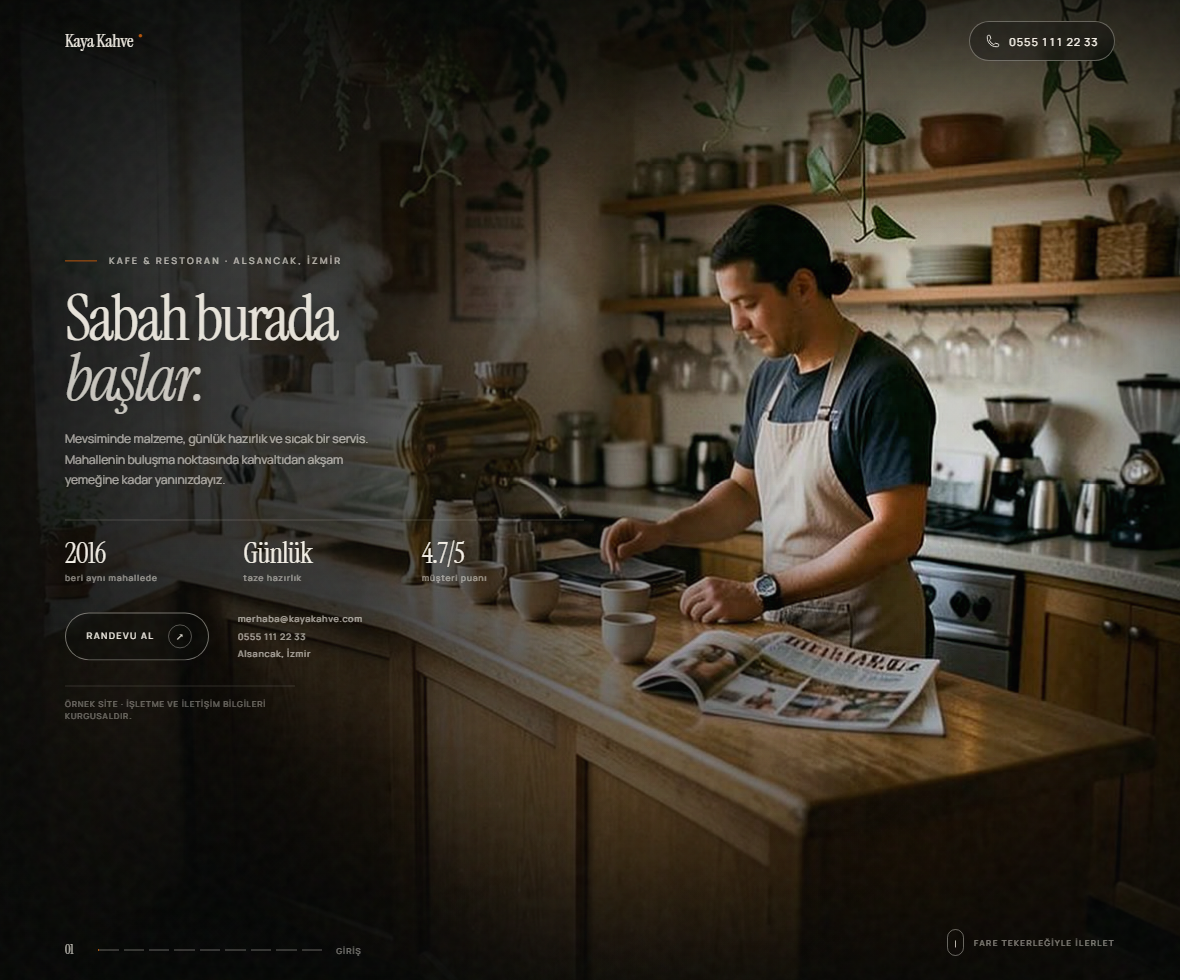
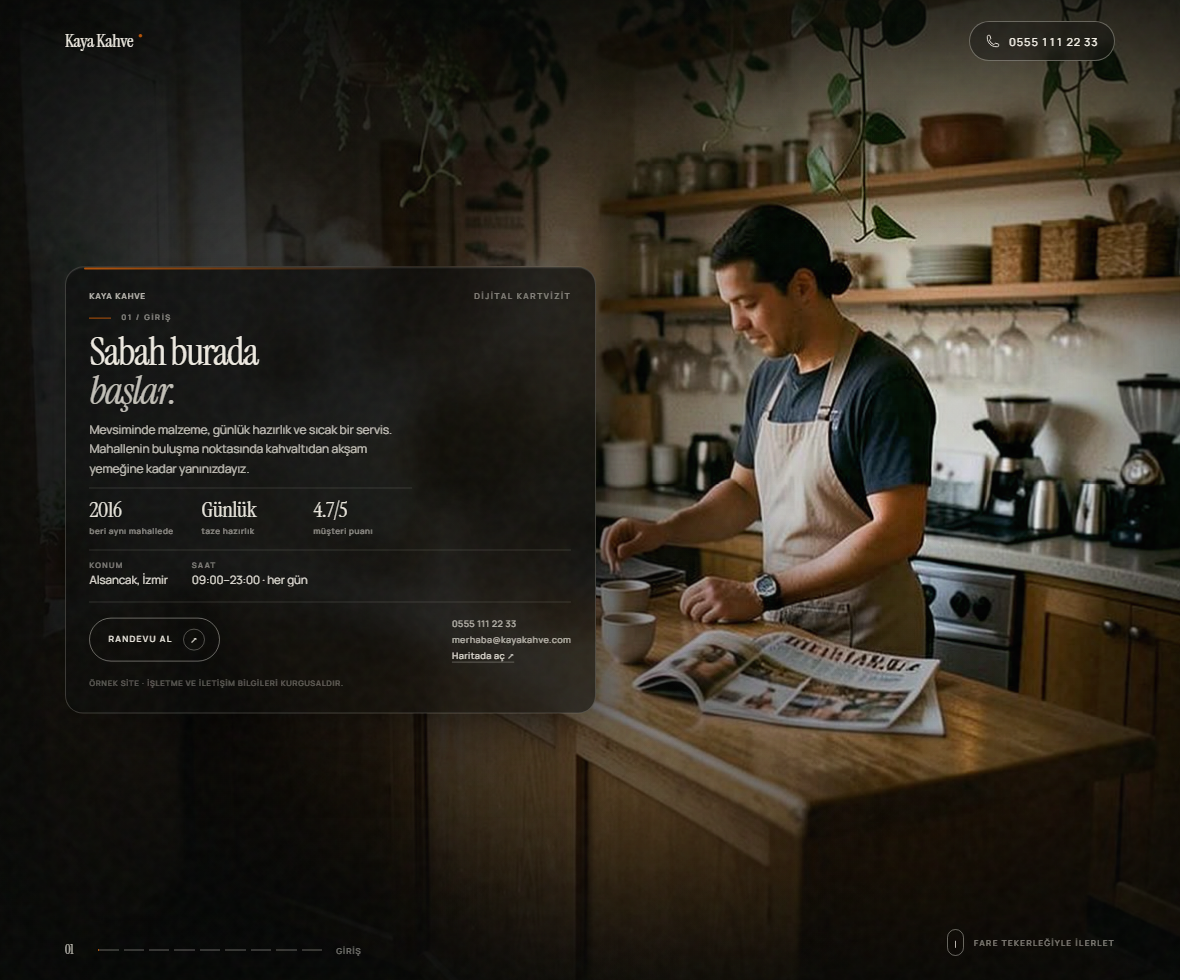
Kartvizit bölümü: sektöre göre değişen 9 sahne, konum ve harita bağlantısı.
Sol metin bloğu cam kartvizite dönüştü; orta tuş her çevrildiğinde başlık, hizmet,
ekip, kayıt ve davet bilgileri kartın içinde değişiyor.

Changed region(s): [[0.061, 0.2449, 0.5186, 0.7347]]

diff --git a/kaya-kahve/index.html b/kaya-kahve/index.html
@@ -125,28 +125,41 @@ html:not(.js) .reklam{display:none}
 .ust-tel b{font-weight:500;font-variant-numeric:tabular-nums}
 .ust-tel:hover,.ust-tel:focus-visible{background:var(--vurgu);border-color:var(--vurgu);color:var(--zemin)}
 
-/* Tek metin bloğu: kareler değişir, yazı yerinde durur. */
-.tek{position:absolute;z-index:6;left:var(--kenar);top:50%;width:min(560px,44vw);transform:translateY(-50%);pointer-events:none}
+/* Kartvizit: yazılar fotoğrafın üstünde cam bir kart gibi durur. Orta tuş
+   çevrildikçe karenin yanında kartın içi de değişir. */
+.tek{position:absolute;z-index:6;left:var(--kenar);top:50%;width:min(560px,45vw);transform:translateY(-50%);pointer-events:none}
 .tek>*{pointer-events:auto}
-.tek .etiket{display:flex;align-items:center;gap:12px;font:500 9px/1 var(--sans);letter-spacing:.26em;text-transform:uppercase;color:rgba(243,239,230,.72)}
-.tek .etiket::before{content:'';display:block;width:32px;height:1px;background:var(--vurgu)}
-.tek h2{font:400 clamp(38px,5.4vw,86px)/.95 var(--serif);letter-spacing:-.04em;margin:clamp(14px,2.4vh,24px) 0 clamp(12px,2vh,20px);color:rgba(243,239,230,.94);text-wrap:balance;text-shadow:0 2px 34px rgba(0,0,0,.34)}
-.tek h2 em{font-style:italic;color:rgba(243,239,230,.8)}
-.tek .aciklama{max-width:44ch;font-size:clamp(12px,1.02vw,15px);line-height:1.7;color:var(--soluk);text-shadow:0 1px 16px rgba(0,0,0,.5)}
-.kanit{display:grid;grid-template-columns:repeat(3,minmax(0,1fr));gap:16px;margin-top:clamp(18px,3vh,28px);border-top:1px solid rgba(243,239,230,.18);padding-top:clamp(14px,2.2vh,20px)}
-.kanit div{display:flex;flex-direction:column;gap:4px;min-width:0}
-.kanit b{font:400 clamp(24px,2.4vw,34px)/1 var(--serif);letter-spacing:-.02em;color:var(--murekkep)}
-.kanit span{font:500 8.5px/1.45 var(--sans);letter-spacing:.1em;color:rgba(243,239,230,.56)}
-.son-iletisim{display:flex;flex-wrap:wrap;align-items:center;gap:clamp(14px,2.4vw,28px);margin-top:clamp(18px,3vh,28px)}
-.son-dugme{display:inline-flex;align-items:center;justify-content:center;gap:14px;min-height:48px;padding:0 16px 0 21px;border:1px solid rgba(243,239,230,.45);border-radius:100px;background:rgba(10,11,10,.35);backdrop-filter:blur(8px);font:500 9px/1 var(--sans);letter-spacing:.16em;text-transform:uppercase;color:var(--murekkep);overflow:hidden;isolation:isolate;position:relative;transition:color .4s,border-color .4s}
-.son-dugme::before{content:'';position:absolute;z-index:-1;inset:0;background:var(--murekkep);transform:translateY(101%);transition:transform .55s var(--ease)}
-.son-dugme:hover{color:var(--zemin);border-color:var(--murekkep)}
-.son-dugme:hover::before{transform:translateY(0)}
-.son-dugme span{display:flex;align-items:center;justify-content:center;width:24px;height:24px;border:1px solid rgba(243,239,230,.32);border-radius:50%;font-size:10px;transition:transform .4s,border-color .4s}
-.son-dugme:hover span{transform:rotate(45deg);border-color:rgba(10,11,10,.3)}
-.son-bilgi{display:flex;flex-direction:column;gap:4px;font:500 9px/1.5 var(--sans);letter-spacing:.08em;color:rgba(243,239,230,.66)}
-.son-bilgi a:hover{color:var(--murekkep)}
-.son-not{max-width:46ch;margin-top:clamp(16px,2.6vh,24px);padding-top:12px;border-top:1px solid rgba(243,239,230,.14);font:500 8px/1.6 var(--sans);letter-spacing:.12em;text-transform:uppercase;color:rgba(243,239,230,.4)}
+.kart{position:relative;display:flex;flex-direction:column;gap:clamp(10px,1.5vh,16px);padding:clamp(18px,2vw,26px);border:1px solid rgba(243,239,230,.2);border-radius:18px;background:linear-gradient(158deg,rgba(12,13,12,.78),rgba(8,9,8,.6));backdrop-filter:blur(16px) saturate(1.15);-webkit-backdrop-filter:blur(16px) saturate(1.15);box-shadow:0 30px 70px -30px rgba(0,0,0,.85),inset 0 1px 0 rgba(255,255,255,.07)}
+.kart::before{content:'';position:absolute;left:18px;right:38%;top:0;height:2px;border-radius:2px;background:linear-gradient(90deg,var(--vurgu),transparent)}
+.kart-ust{display:flex;align-items:center;justify-content:space-between;gap:12px;font:500 8px/1 var(--sans);letter-spacing:.22em;text-transform:uppercase;color:rgba(243,239,230,.5)}
+.kart-ust b{font-weight:500;color:rgba(243,239,230,.8);letter-spacing:.14em;white-space:nowrap;overflow:hidden;text-overflow:ellipsis}
+/* Kart yüksekliği sahneye göre değişir: her vuruşta kart nefes alır. */
+.kart-govde{position:relative;transition:height .55s var(--ease);overflow:hidden}
+.kart-sahne{position:absolute;top:0;left:0;right:0;display:flex;flex-direction:column;gap:9px;opacity:0;transform:translateY(9px);transition:opacity .5s var(--ease),transform .6s var(--ease);pointer-events:none}
+.kart-sahne.on{opacity:1;transform:none;pointer-events:auto}
+.kart-no{display:flex;align-items:center;gap:10px;font:500 7.5px/1 var(--sans);letter-spacing:.24em;text-transform:uppercase;color:rgba(243,239,230,.56)}
+.kart-no::before{content:'';display:block;width:22px;height:1px;background:var(--vurgu)}
+.kart-sahne h2{font:400 clamp(27px,3.3vw,45px)/1 var(--serif);letter-spacing:-.035em;margin:2px 0 0;color:rgba(243,239,230,.98);text-wrap:balance}
+.kart-sahne h2 em{font-style:italic;color:rgba(243,239,230,.78)}
+.kart-metin{font-size:clamp(12px,.95vw,13.5px);line-height:1.62;color:rgba(243,239,230,.78);max-width:44ch}
+.kart-kanit{display:grid;grid-template-columns:repeat(3,minmax(0,1fr));gap:14px;margin-top:10px;padding-top:10px;border-top:1px solid rgba(243,239,230,.14)}
+.kart-kanit b{display:block;font:400 clamp(19px,1.9vw,25px)/1 var(--serif);letter-spacing:-.02em;color:rgba(243,239,230,.96)}
+.kart-kanit span{display:block;margin-top:4px;font:500 8px/1.4 var(--sans);letter-spacing:.08em;color:rgba(243,239,230,.56)}
+.kart-kunye{display:flex;flex-wrap:wrap;gap:10px 24px;margin:4px 0 0;padding-top:11px;border-top:1px solid rgba(243,239,230,.14)}
+.kart-kunye div{display:flex;flex-direction:column;gap:3px;min-width:0;max-width:24ch}
+.kart-kunye dt{font:500 7.5px/1 var(--sans);letter-spacing:.2em;text-transform:uppercase;color:rgba(243,239,230,.52)}
+.kart-kunye dd{margin:0;font:400 11.5px/1.35 var(--sans);color:rgba(243,239,230,.92);overflow-wrap:anywhere}
+.kart-kunye .harita-baglanti{color:rgba(243,239,230,.95);text-decoration:underline;text-decoration-color:rgba(243,239,230,.34);text-underline-offset:3px}
+.kart-kunye .harita-baglanti:hover{color:var(--vurgu);text-decoration-color:var(--vurgu)}
+.kart-alt{display:flex;align-items:center;justify-content:space-between;gap:14px;flex-wrap:wrap;padding-top:clamp(10px,1.4vh,14px);border-top:1px solid rgba(243,239,230,.14)}
+.kart-dugme{display:inline-flex;align-items:center;gap:11px;height:44px;padding:0 14px 0 18px;border:1px solid rgba(243,239,230,.4);border-radius:100px;font:500 8.5px/1 var(--sans);letter-spacing:.16em;text-transform:uppercase;color:var(--murekkep);transition:background .35s,color .35s,border-color .35s}
+.kart-dugme span{display:flex;align-items:center;justify-content:center;width:22px;height:22px;border:1px solid rgba(243,239,230,.3);border-radius:50%;font-size:9px;transition:transform .4s,border-color .4s}
+.kart-dugme:hover{background:var(--murekkep);color:var(--zemin);border-color:var(--murekkep)}
+.kart-dugme:hover span{transform:rotate(45deg);border-color:rgba(10,11,10,.28)}
+.kart-baglar{display:flex;flex-direction:column;gap:2px;font:500 9px/1.55 var(--sans);letter-spacing:.05em;color:rgba(243,239,230,.7)}
+.kart-baglar a:hover,.kart-baglar a:focus-visible{color:var(--murekkep)}
+.kart-baglar .harita{color:rgba(243,239,230,.88);text-decoration:underline;text-decoration-color:rgba(243,239,230,.3);text-underline-offset:3px}
+.kart-not{font:500 7.5px/1.6 var(--sans);letter-spacing:.12em;text-transform:uppercase;color:rgba(243,239,230,.36)}
 
 /* Alt şerit: film şeridi — altı vuruş, biri yanar. */
 .alt{position:absolute;z-index:10;left:var(--kenar);right:var(--kenar);bottom:24px;display:flex;align-items:flex-end;justify-content:space-between;gap:24px;pointer-events:none}
@@ -174,11 +187,12 @@ body.gezindi .ipucu{opacity:.62}
   .film::before{background:
     linear-gradient(0deg,rgba(7,8,7,.96) 0%,rgba(7,8,7,.86) 30%,rgba(7,8,7,.34) 58%,transparent 78%),
     linear-gradient(180deg,rgba(7,8,7,.7) 0%,transparent 22%)}
-  .tek{top:auto;bottom:clamp(92px,15vh,124px);transform:none;width:auto;right:var(--kenar)}
-  .tek h2{font-size:clamp(34px,8.6vw,56px)}
-  .tek .aciklama{font-size:12px;max-width:36ch}
-  .kanit{gap:10px}
-  .kanit b{font-size:24px}
+  .tek{top:auto;bottom:clamp(84px,13vh,116px);transform:none;width:auto;right:var(--kenar)}
+  .kart{padding:15px;gap:9px}
+  .kart-sahne h2{font-size:clamp(26px,7vw,38px)}
+  .kart-metin{font-size:11.5px;max-width:38ch}
+  .kart-kunye{gap:8px 18px;padding-top:9px}
+  .kart-ust span{display:none}
   .alt{flex-direction:column;align-items:flex-start;gap:12px;bottom:16px}
   .ipucu{align-self:flex-end}
   .marka{font-size:15px}
@@ -187,17 +201,18 @@ body.gezindi .ipucu{opacity:.62}
   .reklam-ad{font-size:clamp(38px,11vw,58px)}
 }
 @media (max-height:640px){
-  .tek h2{font-size:clamp(30px,5.6vh,48px);margin:10px 0}
-  .tek .aciklama{font-size:11.5px;line-height:1.55}
-  .kanit{margin-top:12px;padding-top:10px}
-  .son-not{display:none}
-  .son-iletisim{margin-top:12px}
+  .kart-sahne h2{font-size:clamp(24px,4.4vh,32px)}
+  .kart-metin{font-size:11px;line-height:1.5}
+  .kart-not{display:none}
+  .kart{padding:14px;gap:8px}
 }
 @media (prefers-reduced-motion:reduce){
   *,*::before,*::after{animation-duration:.01ms!important;animation-iteration-count:1!important;transition-duration:.01ms!important}
   .kare img{transform:none!important}
 }
 html:not(.js) .kare[data-i="1"]{opacity:1;visibility:visible}
+html:not(.js) .kart-govde{height:auto}
+html:not(.js) .kart-sahne{position:static}
 html:not(.js) .ipucu{display:none}
 </style>
 </head>
@@ -238,19 +253,105 @@ html:not(.js) .ipucu{display:none}
   </header>
 
   <section class="tek" aria-live="polite">
-    <span class="etiket">Kafe &amp; Restoran · Alsancak, İzmir</span>
-    <h2>Sabah burada<br><em>başlar.</em></h2>
-    <p class="aciklama">Mevsiminde malzeme, günlük hazırlık ve sıcak bir servis. Mahallenin buluşma noktasında kahvaltıdan akşam yemeğine kadar yanınızdayız.</p>
-    <div class="kanit"><div><b>2016</b><span>beri aynı mahallede</span></div><div><b>Günlük</b><span>taze hazırlık</span></div><div><b>4.7/5</b><span>müşteri puanı</span></div></div>
-    <div class="son-iletisim">
-      <a class="son-dugme" href="mailto:merhaba@kayakahve.com">Randevu al <span>↗</span></a>
-      <div class="son-bilgi">
-        <a href="mailto:merhaba@kayakahve.com">merhaba@kayakahve.com</a>
-        <span>0555 111 22 33</span>
-        <span>Alsancak, İzmir</span>
+    <div class="kart">
+      <span class="kart-ust"><b>Kaya Kahve</b><span>Dijital kartvizit</span></span>
+      <div class="kart-govde">
+        <div class="kart-sahne on" data-i="1">
+          <span class="kart-no">01 / Giriş</span>
+          <h2>Sabah burada<br><em>başlar.</em></h2>
+          <div class="kart-metin">Mevsiminde malzeme, günlük hazırlık ve sıcak bir servis. Mahallenin buluşma noktasında kahvaltıdan akşam yemeğine kadar yanınızdayız.<div class="kart-kanit"><div><b>2016</b><span>beri aynı mahallede</span></div><div><b>Günlük</b><span>taze hazırlık</span></div><div><b>4.7/5</b><span>müşteri puanı</span></div></div></div>
+          <dl class="kart-kunye">
+            <div><dt>Konum</dt><dd>Alsancak, İzmir</dd></div>
+            <div><dt>Saat</dt><dd>09:00–23:00 · her gün</dd></div>
+          </dl>
+        </div>
+        <div class="kart-sahne" data-i="2">
+          <span class="kart-no">02 / Hizmet</span>
+          <h2>Kahvaltı</h2>
+          <div class="kart-metin">Serpme kahvaltı ve günlük fırın ürünleri; hafta sonu 09.00–13.00.</div>
+          <dl class="kart-kunye">
+            <div><dt>Konum</dt><dd>Alsancak, İzmir</dd></div>
+            <div><dt>Saat</dt><dd>09:00–23:00 · her gün</dd></div>
+          </dl>
+        </div>
+        <div class="kart-sahne" data-i="3">
+          <span class="kart-no">03 / Hizmet</span>
+          <h2>Öğle menüsü</h2>
+          <div class="kart-metin">Her gün değişen iki ana yemek, çorba ve tatlı; 12.00–15.00.</div>
+          <dl class="kart-kunye">
+            <div><dt>Konum</dt><dd>Alsancak, İzmir</dd></div>
+            <div><dt>Saat</dt><dd>09:00–23:00 · her gün</dd></div>
+          </dl>
+        </div>
+        <div class="kart-sahne" data-i="4">
+          <span class="kart-no">04 / Hizmet</span>
+          <h2>Özel davetler</h2>
+          <div class="kart-metin">Doğum günü ve küçük toplantılar için 20 kişiye kadar ayrı salon.</div>
+          <dl class="kart-kunye">
+            <div><dt>Konum</dt><dd>Alsancak, İzmir</dd></div>
+            <div><dt>Saat</dt><dd>09:00–23:00 · her gün</dd></div>
+          </dl>
+        </div>
+        <div class="kart-sahne" data-i="5">
+          <span class="kart-no">05 / Mekân</span>
+          <h2>Mekân ve konum</h2>
+          <div class="kart-metin">Adres, çalışma saati ve yol tarifi.</div>
+          <dl class="kart-kunye">
+            <div><dt>Adres</dt><dd>Alsancak, İzmir</dd></div>
+            <div><dt>Saat</dt><dd>09:00–23:00 · her gün</dd></div>
+            <div><dt>Harita</dt><dd><a class="harita-baglanti" href="https://www.google.com/maps/search/?api=1&query=Alsancak%2C%20%C4%B0zmir" target="_blank" rel="noopener">Google Maps ↗</a></dd></div>
+          </dl>
+        </div>
+        <div class="kart-sahne" data-i="6">
+          <span class="kart-no">06 / Ekip</span>
+          <h2>Ekip ve yaklaşım</h2>
+          <div class="kart-metin">Masa ayırtmak veya özel davet planlamak için yazın; aynı gün dönüş yapıyoruz.</div>
+          <dl class="kart-kunye">
+            <div><dt>Yaklaşım</dt><dd>Günlük kavurma</dd></div>
+            <div><dt>Söz</dt><dd>Mevsiminde malzeme</dd></div>
+            <div><dt>Takip</dt><dd>Açık mutfak</dd></div>
+          </dl>
+        </div>
+        <div class="kart-sahne" data-i="7">
+          <span class="kart-no">07 / Detay</span>
+          <h2>Sabahın akışı</h2>
+          <div class="kart-metin">Her sabah fırın ve tezgâh tazelenir; günlük üretim, dünkü ürün yok.</div>
+          <dl class="kart-kunye">
+            <div><dt>Servis</dt><dd>Kahvaltı 09.00–13.00, öğle menüsü 12.00–15.00; mutfak akşama kadar açık.</dd></div>
+            <div><dt>Akşam</dt><dd>18.00'den sonra sakin ışık ve kısa menü; 20 kişiye kadar özel salon.</dd></div>
+          </dl>
+        </div>
+        <div class="kart-sahne" data-i="8">
+          <span class="kart-no">08 / Kayıt</span>
+          <h2>Randevu</h2>
+          <div class="kart-metin">09:00–23:00 arası açığız. Randevu için arayın ya da yazın; uygun saati aynı gün bildiriyoruz.</div>
+          <dl class="kart-kunye">
+            <div><dt>Telefon</dt><dd>0555 111 22 33</dd></div>
+            <div><dt>E-posta</dt><dd>merhaba@kayakahve.com</dd></div>
+            <div><dt>Saat</dt><dd>09:00–23:00 · her gün</dd></div>
+          </dl>
+        </div>
+        <div class="kart-sahne" data-i="9">
+          <span class="kart-no">09 / Davet</span>
+          <h2>Davet</h2>
+          <div class="kart-metin">Mevsiminde malzeme, günlük hazırlık ve sıcak bir servis. Mahallenin buluşma noktasında kahvaltıdan akşam yemeğine kadar yanınızdayız.</div>
+          <dl class="kart-kunye">
+            <div><dt>Adres</dt><dd>Alsancak, İzmir</dd></div>
+            <div><dt>Telefon</dt><dd>0555 111 22 33</dd></div>
+            <div><dt>Harita</dt><dd><a class="harita-baglanti" href="https://www.google.com/maps/search/?api=1&query=Alsancak%2C%20%C4%B0zmir" target="_blank" rel="noopener">Google Maps ↗</a></dd></div>
+          </dl>
+        </div>
       </div>
+      <div class="kart-alt">
+        <a class="kart-dugme" href="mailto:merhaba@kayakahve.com">Randevu al <span>↗</span></a>
+        <div class="kart-baglar">
+          <a href="tel:05551112233">0555 111 22 33</a>
+          <a href="mailto:merhaba@kayakahve.com">merhaba@kayakahve.com</a>
+          <a class="harita" href="https://www.google.com/maps/search/?api=1&query=Alsancak%2C%20%C4%B0zmir" target="_blank" rel="noopener">Haritada aç ↗</a>
+        </div>
+      </div>
+      <p class="kart-not">Örnek site · İşletme ve iletişim bilgileri kurgusaldır.</p>
     </div>
-    <p class="son-not">Örnek site · İşletme ve iletişim bilgileri kurgusaldır.</p>
   </section>
 
   <footer class="alt">
@@ -269,6 +370,8 @@ html:not(.js) .ipucu{display:none}
   var govde=document.body;
   var reklam=document.getElementById('reklam');
   var kareler=[].slice.call(document.querySelectorAll('.kare'));
+  var kart=[].slice.call(document.querySelectorAll('.kart-sahne'));
+  var kartGovde=document.querySelector('.kart-govde');
   var serit=[].slice.call(document.querySelectorAll('#serit b'));
   var sayac=document.getElementById('sayac');
   var sahneYazi=document.getElementById('sahne');
@@ -288,6 +391,12 @@ html:not(.js) .ipucu{display:none}
       k.classList.toggle('on',i===adim);
       k.setAttribute('aria-hidden',i===adim?'false':'true');
     });
+    /* Kartvizit de kareyle birlikte değişir: mekân, ekip, hizmet, kayıt. */
+    kart.forEach(function(s,i){
+      s.classList.toggle('on',i===adim);
+      s.setAttribute('aria-hidden',i===adim?'false':'true');
+    });
+    kartBoy();
     serit.forEach(function(b,i){
       b.classList.remove('on','gecti');
       void b.offsetWidth;
@@ -298,6 +407,13 @@ html:not(.js) .ipucu{display:none}
     sahneYazi.textContent=ADLAR[adim]||'';
     durum.textContent=(ADLAR[adim]||'Kare')+' · '+(adim+1)+' / '+SON;
     ipucuYazi.textContent=adim===0?'Fare tekerleğiyle ilerlet':(adim===SON-1?'Başa sarmak için devam et':'Devam etmek için çevir');
+  }
+
+  /* Kart, o anki sahnenin boyuna göre büyür ya da küçülür. */
+  function kartBoy(){
+    if(!kartGovde||!kart[adim]) return;
+    var h=kart[adim].offsetHeight;
+    if(h>0) kartGovde.style.height=h+'px';
   }
 
   function vur(){
@@ -388,6 +504,8 @@ html:not(.js) .ipucu{display:none}
     git(adim+(fark>0?1:-1),true);
   },{passive:true});
 
+  window.addEventListener('resize',kartBoy);
+  window.addEventListener('load',kartBoy);
   ciz();
 })();
 </script>
